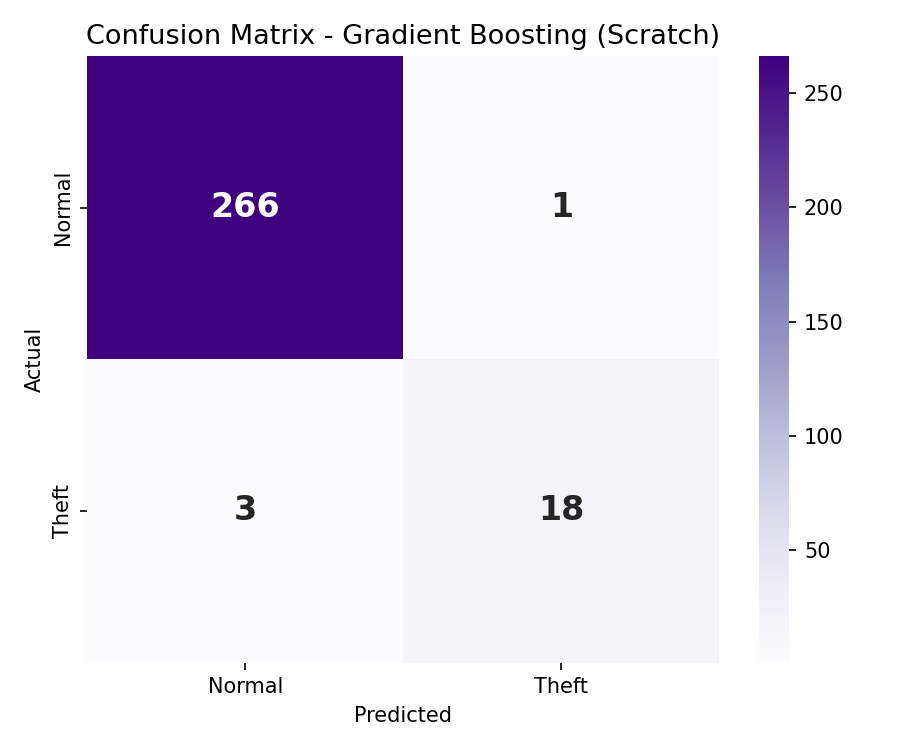
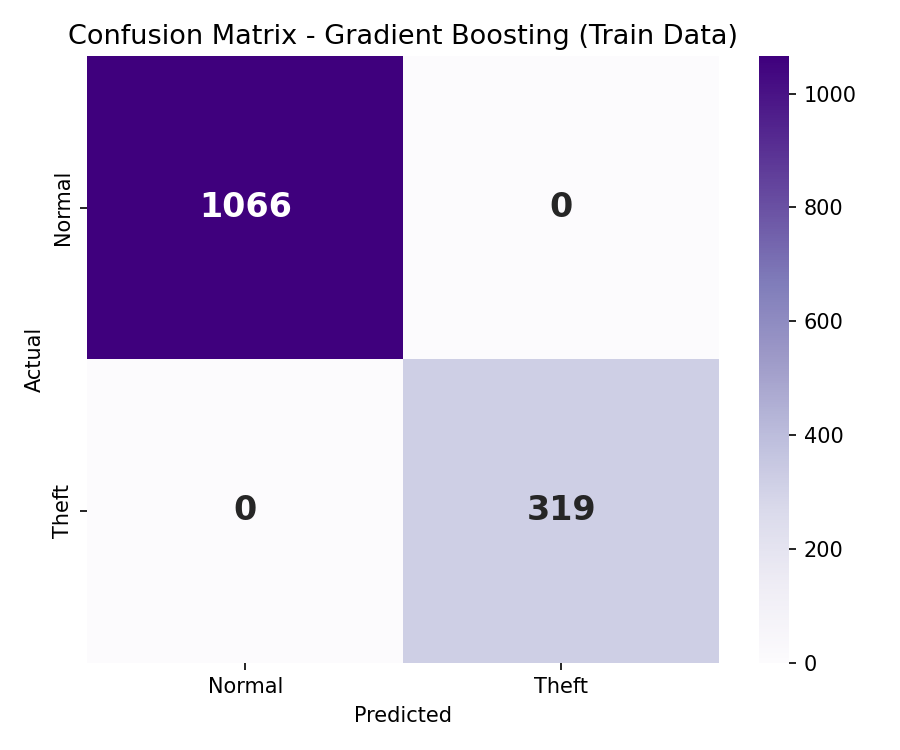
added

diff --git a/train.py b/train.py
@@ -4,36 +4,24 @@ import numpy as np
 import pandas as pd
 from gb_model import GradientBoostingFromScratch, DecisionStump
 
-from sklearn.metrics import (
-    accuracy_score, precision_score, recall_score,
-    f1_score, roc_auc_score, confusion_matrix
-)
 import matplotlib
 matplotlib.use("Agg")
 import matplotlib.pyplot as plt
-import seaborn as sns
-
 
 os.makedirs("xgb_scratch_results", exist_ok=True)
 
-print("Loading saved CSV files ...")
-X_train = pd.read_csv("X_train_smote.csv").values
-y_train = pd.read_csv("y_train_smote.csv").values.ravel()
-X_test  = pd.read_csv("X_test.csv").values
-y_test  = pd.read_csv("y_test.csv").values.ravel()
+print("Loading training CSV files ...")
+X_train      = pd.read_csv("X_train_smote.csv").values
+y_train      = pd.read_csv("y_train_smote.csv").values.ravel()
 all_col_names = pd.read_csv("X_train_smote.csv").columns.tolist()
 
-
 print(f"  X_train shape : {X_train.shape}")
-print(f"  X_test shape  : {X_test.shape}")
 print(f"  y_train theft : {y_train.sum()} / {len(y_train)}")
-print(f"  y_test theft  : {y_test.sum()} / {len(y_test)}")
 print("Files loaded!")
 
 print("\n" + "=" * 50)
 print("Training Gradient Boosting from Scratch ...")
 print("=" * 50)
-
 
 scale_pos = (y_train == 0).sum() / (y_train == 1).sum()
 print(f"  scale_pos_weight = {scale_pos:.2f}")
@@ -46,31 +34,38 @@ model = GradientBoostingFromScratch(
 model.fit(X_train, y_train)
 model.save("xgb_scratch_results/gb_scratch_model.pkl")
 
+
 print("\n" + "=" * 50)
-print("Evaluating ...")
+print("Training Set Performance (not final evaluation) ...")
 print("=" * 50)
 
+from sklearn.metrics import (
+    accuracy_score, precision_score, recall_score,
+    f1_score, roc_auc_score, confusion_matrix
+)
+import seaborn as sns
 
-y_pred = model.predict(X_test)
-y_prob = model.predict_proba(X_test)
+y_train_pred = model.predict(X_train)
+y_train_prob = model.predict_proba(X_train)
 
-acc  = accuracy_score(y_test, y_pred)
-prec = precision_score(y_test, y_pred, zero_division=0)
-rec  = recall_score(y_test, y_pred, zero_division=0)
-f1   = f1_score(y_test, y_pred, zero_division=0)
-auc  = roc_auc_score(y_test, y_prob)
-cm   = confusion_matrix(y_test, y_pred)
+acc  = accuracy_score(y_train, y_train_pred)
+prec = precision_score(y_train, y_train_pred, zero_division=0)
+rec  = recall_score(y_train, y_train_pred, zero_division=0)
+f1   = f1_score(y_train, y_train_pred, zero_division=0)
+auc  = roc_auc_score(y_train, y_train_prob)
+cm   = confusion_matrix(y_train, y_train_pred)
 tn, fp, fn, tp = cm.ravel()
 
-
-print(f"\n========== RESULTS ==========")
+print(f"\n========== TRAINING SET RESULTS ==========")
 print(f"  Accuracy  : {acc*100:.2f}%")
 print(f"  Precision : {prec*100:.2f}%")
 print(f"  Recall    : {rec*100:.2f}%")
 print(f"  F1 Score  : {f1*100:.2f}%")
 print(f"  ROC-AUC   : {auc:.4f}")
 print(f"  TP={tp}  FP={fp}  FN={fn}  TN={tn}")
-print(f"==============================")
+print(f"==========================================")
+print("\n  NOTE: These are training metrics only.")
+print("        For final evaluation, run: test_gb_scratch.py")
 
 
 fig, ax = plt.subplots(figsize=(6, 5))
@@ -78,14 +73,13 @@ sns.heatmap(cm, annot=True, fmt="d", cmap="Purples",
             xticklabels=["Normal", "Theft"],
             yticklabels=["Normal", "Theft"],
             annot_kws={"size": 16, "weight": "bold"})
-ax.set_title("Confusion Matrix - Gradient Boosting (Scratch)", fontsize=13)
+ax.set_title("Confusion Matrix - Gradient Boosting (Train Data)", fontsize=13)
 ax.set_xlabel("Predicted")
 ax.set_ylabel("Actual")
 plt.tight_layout()
 plt.savefig("xgb_scratch_results/graph1_confusion_matrix.png", dpi=150)
 plt.close()
 print("\nSaved: xgb_scratch_results/graph1_confusion_matrix.png")
-
 
 metric_names = ["Accuracy", "Precision", "Recall", "F1 Score", "ROC-AUC"]
 metric_vals  = [acc*100, prec*100, rec*100, f1*100, auc*100]
@@ -94,7 +88,7 @@ fig, ax = plt.subplots(figsize=(8, 5))
 bars = ax.bar(metric_names, metric_vals, color=bar_colors, width=0.5)
 ax.set_ylim(0, 115)
 ax.set_ylabel("Score (%)")
-ax.set_title("All Metrics - Gradient Boosting (Scratch)", fontsize=13)
+ax.set_title("All Metrics - Gradient Boosting (Train Data)", fontsize=13)
 for bar, val in zip(bars, metric_vals):
     ax.text(bar.get_x() + bar.get_width()/2,
             bar.get_height() + 1.5,
@@ -106,7 +100,12 @@ plt.close()
 print("Saved: xgb_scratch_results/graph2_metrics_bar.png")
 
 
+print("\n" + "=" * 50)
+print("Generating Feature Importance Plot ...")
+print("=" * 50)
+
 feature_counts = np.zeros(X_train.shape[1])
+
 def count_splits(node, counts):
     if node["leaf"]:
         return
@@ -120,6 +119,7 @@ for tree in model.trees:
 top_idx      = np.argsort(feature_counts)[::-1][:15]
 top_features = [all_col_names[i] for i in top_idx]
 top_values   = feature_counts[top_idx]
+
 fig, ax = plt.subplots(figsize=(10, 7))
 ax.barh(range(15), top_values[::-1], color="#FFA726", alpha=0.85)
 ax.set_yticks(range(15))
@@ -127,8 +127,12 @@ ax.set_yticklabels(top_features[::-1], fontsize=9)
 ax.set_xlabel("Number of Times Used in Splits")
 ax.set_title("Top 15 Important Features - Gradient Boosting (Scratch)", fontsize=13)
 plt.tight_layout()
-plt.savefig("xgb_scratch_results/graph3_feature_importance.png", dpi=150)
+plt.savefig("xgb_scratch_results/graph1_feature_importance.png", dpi=150)
 plt.close()
-print("Saved: xgb_scratch_results/graph3_feature_importance.png")
+print("Saved: xgb_scratch_results/graph1_feature_importance.png")
 
-print("\nAll done! Check xgb_scratch_results/ folder.")
+print("\n" + "=" * 50)
+print("Training DONE!")
+print("  Model saved → xgb_scratch_results/gb_scratch_model.pkl")
+print("  Next step   → run test_gb_scratch.py for final evaluation")
+print("=" * 50)
